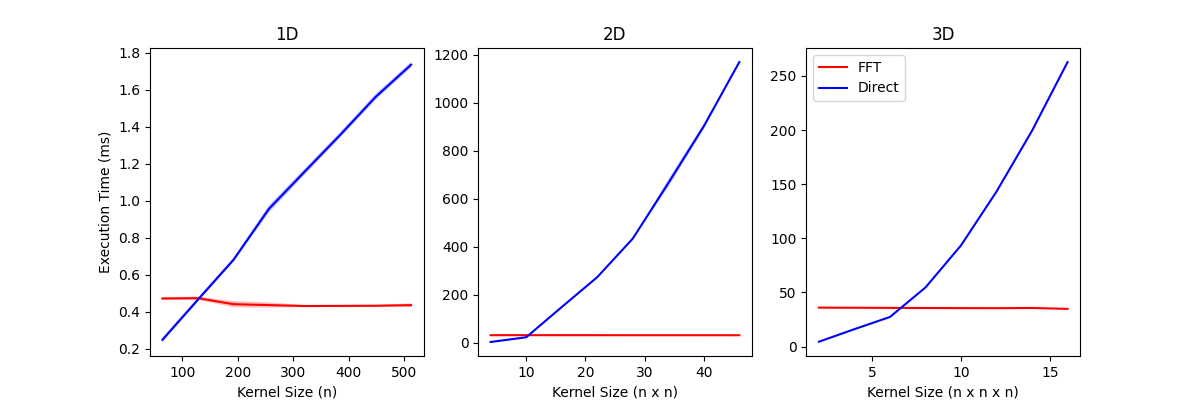
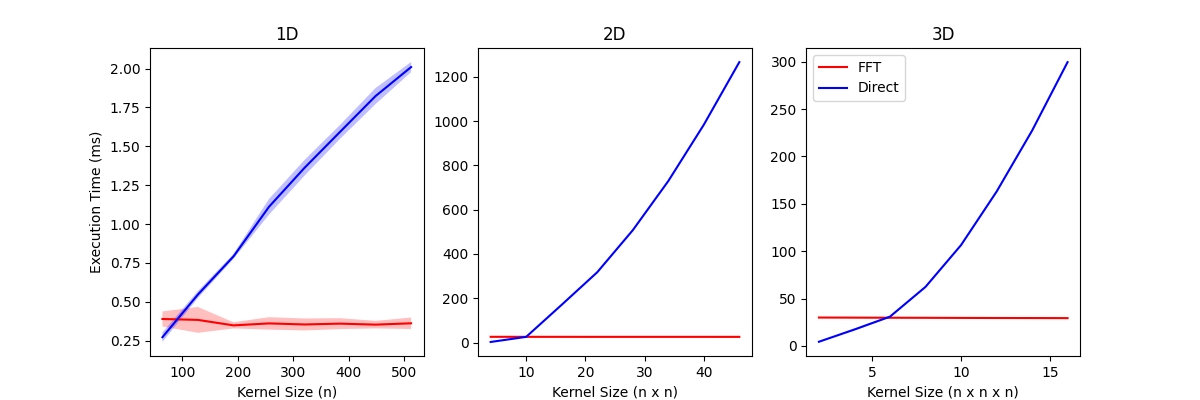
Update repository structure Update benchmark plot remove pytest coverage

diff --git a/fft_conv_pytorch/functional.py b/fft_conv_pytorch/functional.py
@@ -1,10 +1,11 @@
-from functools import partial
 from typing import Iterable, Tuple, Union
 
 import torch
 import torch.nn.functional as f
 from torch import Tensor, nn
 from torch.fft import irfftn, rfftn
+
+from .utils import to_ntuple
 
 
 def complex_matmul(a: Tensor, b: Tensor, groups: int = 1) -> Tensor:
@@ -13,25 +14,6 @@ def complex_matmul(a: Tensor, b: Tensor, groups: int = 1) -> Tensor:
         a.unflatten(1, [groups, a.size(1) // groups]),  # B G C ...
         b.unflatten(0, [groups, b.size(0) // groups]),  # G OC IC ...
     ).flatten(1, 2)
-
-
-def to_ntuple(val: Union[int, Iterable[int]], n: int) -> Tuple[int, ...]:
-    """Casts to a tuple with length 'n'.  Useful for automatically computing the
-    padding and stride for convolutions, where users may only provide an integer.
-    Args:
-        val: (Union[int, Iterable[int]]) Value to cast into a tuple.
-        n: (int) Desired length of the tuple
-    Returns:
-        (Tuple[int, ...]) Tuple of length 'n'
-    """
-    if isinstance(val, Iterable):
-        out = tuple(val)
-        if len(out) == n:
-            return out
-        else:
-            raise ValueError(f"Cannot cast tuple of length {len(out)} to length {n}.")
-    else:
-        return n * (val,)
 
 
 def fft_conv(
@@ -102,75 +84,3 @@ def fft_conv(
         output += bias.view(bias_shape)
 
     return output
-
-
-class _FFTConv(nn.Module):
-    """Base class for PyTorch FFT convolution layers."""
-
-    def __init__(
-        self,
-        in_channels: int,
-        out_channels: int,
-        kernel_size: Union[int, Iterable[int]],
-        padding: Union[int, Iterable[int]] = 0,
-        padding_mode: str = "constant",
-        stride: Union[int, Iterable[int]] = 1,
-        dilation: Union[int, Iterable[int]] = 1,
-        groups: int = 1,
-        bias: bool = True,
-        ndim: int = 1,
-    ):
-        """
-        Args:
-            in_channels: (int) Number of channels in input tensors
-            out_channels: (int) Number of channels in output tensors
-            kernel_size: (Union[int, Iterable[int]) Square radius of the kernel
-            padding: (Union[int, Iterable[int]) Number of zero samples to pad the
-                input on the last dimension.
-            stride: (Union[int, Iterable[int]) Stride size for computing output values.
-            bias: (bool) If True, includes bias, which is added after convolution
-        """
-        super().__init__()
-        self.in_channels = in_channels
-        self.out_channels = out_channels
-        self.kernel_size = kernel_size
-        self.padding = padding
-        self.padding_mode = padding_mode
-        self.stride = stride
-        self.dilation = dilation
-        self.groups = groups
-        self.use_bias = bias
-
-        if in_channels % groups != 0:
-            raise ValueError(
-                "'in_channels' must be divisible by 'groups'."
-                f"Found: in_channels={in_channels}, groups={groups}."
-            )
-        if out_channels % groups != 0:
-            raise ValueError(
-                "'out_channels' must be divisible by 'groups'."
-                f"Found: out_channels={out_channels}, groups={groups}."
-            )
-
-        kernel_size = to_ntuple(kernel_size, ndim)
-        weight = torch.randn(out_channels, in_channels // groups, *kernel_size)
-
-        self.weight = nn.Parameter(weight)
-        self.bias = nn.Parameter(torch.randn(out_channels)) if bias else None
-
-    def forward(self, signal):
-        return fft_conv(
-            signal,
-            self.weight,
-            bias=self.bias,
-            padding=self.padding,
-            padding_mode=self.padding_mode,
-            stride=self.stride,
-            dilation=self.dilation,
-            groups=self.groups,
-        )
-
-
-FFTConv1d = partial(_FFTConv, ndim=1)
-FFTConv2d = partial(_FFTConv, ndim=2)
-FFTConv3d = partial(_FFTConv, ndim=3)

diff --git a/fft_conv_pytorch/nn.py b/fft_conv_pytorch/nn.py
@@ -1,0 +1,80 @@
+from functools import partial
+from typing import Iterable, Tuple, Union
+
+import torch
+from torch import Tensor, nn
+
+from .functional import fft_conv
+from .utils import to_ntuple
+
+
+class _FFTConv(nn.Module):
+    """Base class for PyTorch FFT convolution layers."""
+
+    def __init__(
+        self,
+        in_channels: int,
+        out_channels: int,
+        kernel_size: Union[int, Iterable[int]],
+        padding: Union[int, Iterable[int]] = 0,
+        padding_mode: str = "constant",
+        stride: Union[int, Iterable[int]] = 1,
+        dilation: Union[int, Iterable[int]] = 1,
+        groups: int = 1,
+        bias: bool = True,
+        ndim: int = 1,
+    ):
+        """
+        Args:
+            in_channels: (int) Number of channels in input tensors
+            out_channels: (int) Number of channels in output tensors
+            kernel_size: (Union[int, Iterable[int]) Square radius of the kernel
+            padding: (Union[int, Iterable[int]) Number of zero samples to pad the
+                input on the last dimension.
+            stride: (Union[int, Iterable[int]) Stride size for computing output values.
+            bias: (bool) If True, includes bias, which is added after convolution
+        """
+        super().__init__()
+        self.in_channels = in_channels
+        self.out_channels = out_channels
+        self.kernel_size = kernel_size
+        self.padding = padding
+        self.padding_mode = padding_mode
+        self.stride = stride
+        self.dilation = dilation
+        self.groups = groups
+        self.use_bias = bias
+
+        if in_channels % groups != 0:
+            raise ValueError(
+                "'in_channels' must be divisible by 'groups'."
+                f"Found: in_channels={in_channels}, groups={groups}."
+            )
+        if out_channels % groups != 0:
+            raise ValueError(
+                "'out_channels' must be divisible by 'groups'."
+                f"Found: out_channels={out_channels}, groups={groups}."
+            )
+
+        kernel_size = to_ntuple(kernel_size, ndim)
+        weight = torch.randn(out_channels, in_channels // groups, *kernel_size)
+
+        self.weight = nn.Parameter(weight)
+        self.bias = nn.Parameter(torch.randn(out_channels)) if bias else None
+
+    def forward(self, signal):
+        return fft_conv(
+            signal,
+            self.weight,
+            bias=self.bias,
+            padding=self.padding,
+            padding_mode=self.padding_mode,
+            stride=self.stride,
+            dilation=self.dilation,
+            groups=self.groups,
+        )
+
+
+FFTConv1d = partial(_FFTConv, ndim=1)
+FFTConv2d = partial(_FFTConv, ndim=2)
+FFTConv3d = partial(_FFTConv, ndim=3)

diff --git a/fft_conv_pytorch/utils.py b/fft_conv_pytorch/utils.py
@@ -1,39 +1,20 @@
-from timeit import Timer
-from typing import Callable, NamedTuple
-
-import numpy as np
-import torch
-from torch import Tensor
+from typing import Iterable, Tuple, Union
 
 
-class Benchmark(NamedTuple):
-    mean: float
-    std: float
-
-    def __repr__(self):
-        return f"BenchmarkResult(mean: {self.mean:.3e}, std: {self.std:.3e})"
-
-    def __str__(self):
-        return f"({self.mean:.3e} \u00B1 {self.std:.3e}) s"
-
-
-def benchmark(fn: Callable, *args, num_iterations: int = 10, **kwargs) -> Benchmark:
-    timer = Timer(
-        "fn(*args, **kwargs)",
-        globals={"fn": fn, "args": args, "kwargs": kwargs},
-    )
-    times = timer.repeat(number=1, repeat=num_iterations + 1)
-    return Benchmark(np.mean(times[1:]).item(), np.std(times[1:]).item())
-
-
-def _assert_almost_equal(x: Tensor, y: Tensor) -> bool:
-    abs_error = torch.abs(x - y)
-    assert abs_error.mean().item() < 5e-5
-    assert abs_error.max().item() < 1e-4
-    return True
-
-
-def _gcd(x: int, y: int) -> int:
-    while y:
-        x, y = y, x % y
-    return x
+def to_ntuple(val: Union[int, Iterable[int]], n: int) -> Tuple[int, ...]:
+    """Casts to a tuple with length 'n'.  Useful for automatically computing the
+    padding and stride for convolutions, where users may only provide an integer.
+    Args:
+        val: (Union[int, Iterable[int]]) Value to cast into a tuple.
+        n: (int) Desired length of the tuple
+    Returns:
+        (Tuple[int, ...]) Tuple of length 'n'
+    """
+    if isinstance(val, Iterable):
+        out = tuple(val)
+        if len(out) == n:
+            return out
+        else:
+            raise ValueError(f"Cannot cast tuple of length {len(out)} to length {n}.")
+    else:
+        return n * (val,)

diff --git a/fft_conv_pytorch/benchmark_utils.py b/fft_conv_pytorch/benchmark_utils.py
@@ -1,0 +1,39 @@
+from timeit import Timer
+from typing import Callable, NamedTuple
+
+import numpy as np
+import torch
+from torch import Tensor
+
+
+class Benchmark(NamedTuple):
+    mean: float
+    std: float
+
+    def __repr__(self):
+        return f"BenchmarkResult(mean: {self.mean:.3e}, std: {self.std:.3e})"
+
+    def __str__(self):
+        return f"({self.mean:.3e} \u00B1 {self.std:.3e}) s"
+
+
+def benchmark(fn: Callable, *args, num_iterations: int = 10, **kwargs) -> Benchmark:
+    timer = Timer(
+        "fn(*args, **kwargs)",
+        globals={"fn": fn, "args": args, "kwargs": kwargs},
+    )
+    times = timer.repeat(number=1, repeat=num_iterations + 1)
+    return Benchmark(np.mean(times[1:]).item(), np.std(times[1:]).item())
+
+
+def _assert_almost_equal(x: Tensor, y: Tensor) -> bool:
+    abs_error = torch.abs(x - y)
+    assert abs_error.mean().item() < 5e-5
+    assert abs_error.max().item() < 1e-4
+    return True
+
+
+def _gcd(x: int, y: int) -> int:
+    while y:
+        x, y = y, x % y
+    return x

diff --git a/tests/test_functional.py b/tests/test_functional.py
@@ -4,8 +4,8 @@ import pytest
 import torch
 import torch.nn.functional as f
 
-from fft_conv_pytorch.fft_conv import fft_conv, to_ntuple
-from fft_conv_pytorch.utils import _assert_almost_equal, _gcd
+from fft_conv_pytorch.functional import fft_conv, to_ntuple
+from fft_conv_pytorch.benchmark_utils import _assert_almost_equal, _gcd
 
 
 @pytest.mark.parametrize("in_channels", [2, 3])

diff --git a/doc/scripts/generate_benchmark_plot.py b/doc/scripts/generate_benchmark_plot.py
@@ -7,8 +7,8 @@ import torch
 import torch.nn.functional as f
 from tqdm import tqdm
 
-from fft_conv_pytorch.fft_conv import fft_conv, to_ntuple
-from fft_conv_pytorch.utils import Benchmark, benchmark
+from fft_conv_pytorch.functional import fft_conv, to_ntuple
+from fft_conv_pytorch.benchmark_utils import Benchmark, benchmark
 
 
 def cuda_sync(func, *args, **kwargs):

diff --git a/tests/test_module.py b/tests/test_module.py
@@ -4,8 +4,8 @@ import pytest
 import torch
 import torch.nn.functional as f
 
-from fft_conv_pytorch.fft_conv import _FFTConv
-from fft_conv_pytorch.utils import _assert_almost_equal, _gcd
+from fft_conv_pytorch.nn import _FFTConv
+from fft_conv_pytorch.benchmark_utils import _assert_almost_equal, _gcd
 
 
 @pytest.mark.parametrize("in_channels", [2, 3])

diff --git a/fft_conv_pytorch/__init__.py b/fft_conv_pytorch/__init__.py
@@ -1,1 +1,2 @@
-from fft_conv_pytorch.fft_conv import FFTConv1d, FFTConv2d, FFTConv3d, fft_conv
+from . import functional, nn
+from .nn import FFTConv1d, FFTConv2d, FFTConv3d
